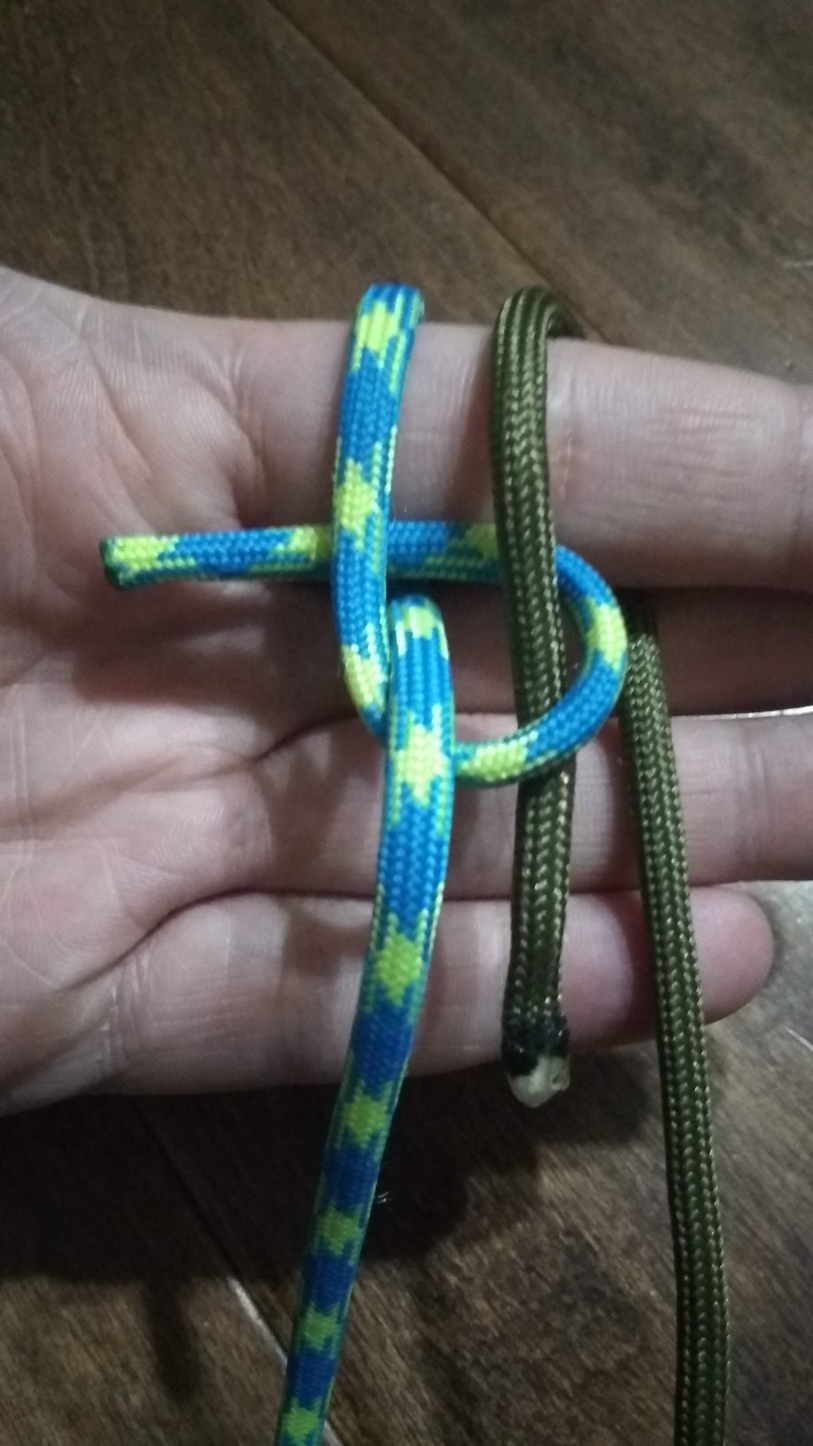
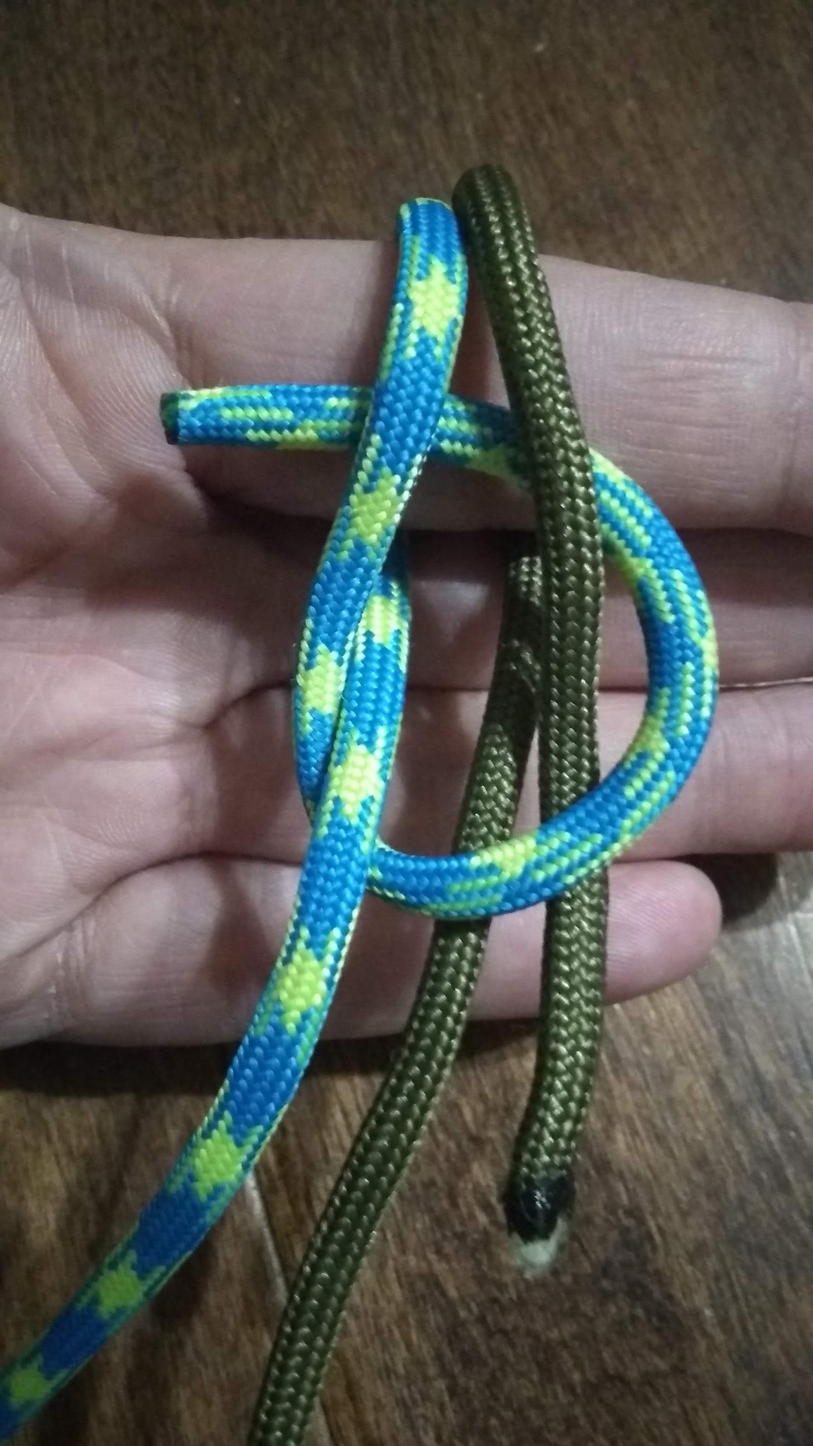
Corrected zeppelin bend

diff --git a/docs/_posts/2020-07-20-tying-the-zeppelin-knots.md b/docs/_posts/2020-07-20-tying-the-zeppelin-knots.md
@@ -16,13 +16,17 @@ This bend won't slip or shake loose, ever. It reduces the breaking strength of
 a rope by only 25%. And it remains easy to untie after being subjected to an
 extreme load, although not _while_ loaded. To tie it:
 
-1. Take one end of each rope, and drape them over your index finger as illustrated.
+1. Take one end of each rope, and drape them over your index finger as
+illustrated.
 
-2. Take the end of the left rope _under_ its standing part, _over and under_ the end of the right rope, then back under itself to form an overhand knot around both ropes.
+2. Take the end of the left rope _under_ its standing part, _over and under_
+the end of the right rope, then back under itself to form an overhand knot
+around both ropes.
 
-3. Take the end of the right rope around _behind_ the index finger and _under both ropes to form another overhand knot around them.
+3. Take the end of the right rope around _behind_ the index finger and _under
+both ropes to form another overhand knot around them.
 
-4. Pull the standing parts tight, then the ends, then the standing parts again.
+4. Pull the standing parts, then the ends.
 
 <div class="gallery" markdown="1">
 ![Step 1][bend-1-photo]
